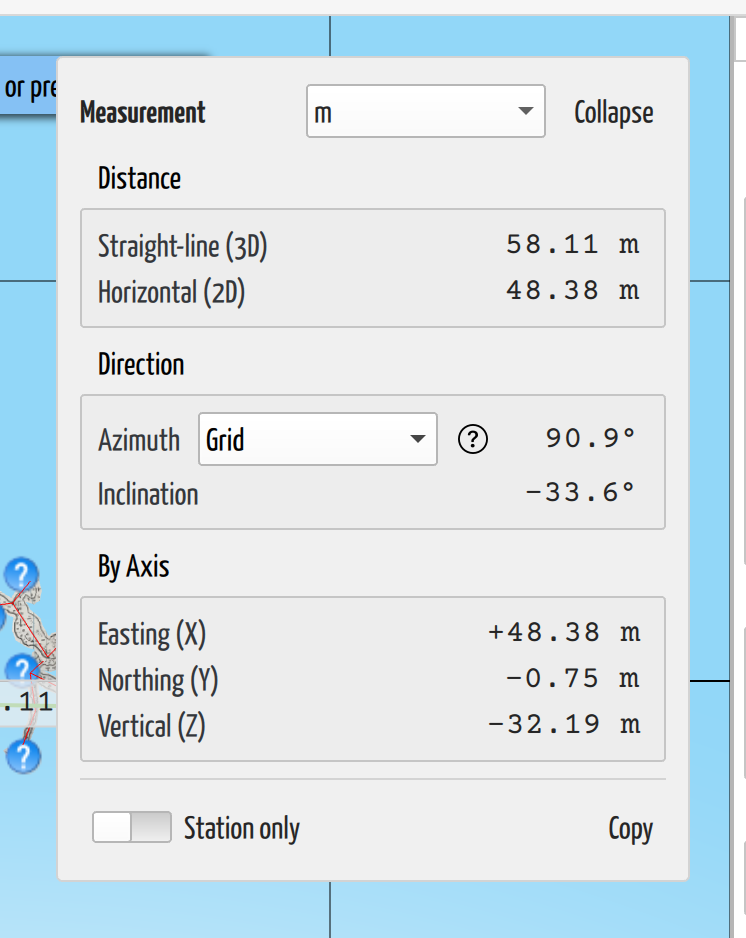
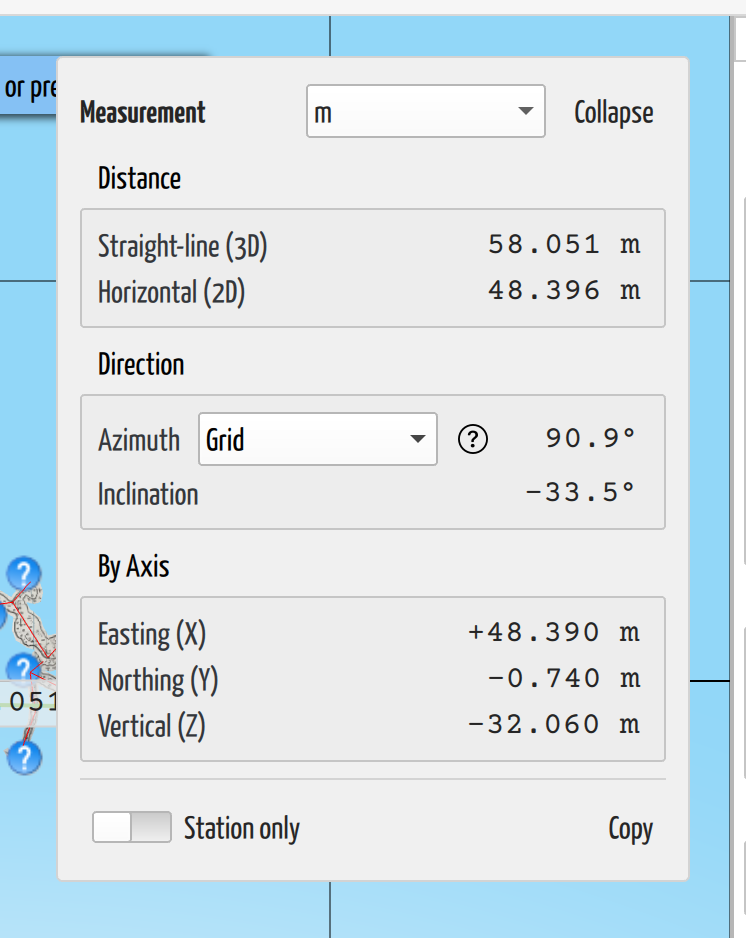
Read a measured length to the millimeter
The measurement tool showed every length at 2 decimals, so a metric
readout stopped at the centimeter — coarser than the disto the distance
came from. Feet at 2 decimals already resolve about 3 mm, so the fix is
per-unit, not a single new number.

cwUnits::lengthDecimals(unit) is that rule, and it is the only place it
lives: meters 3, feet 2, km/mi 3, mm 0, cm 1, in/yd 2. formatLength lost
its decimals parameter and reads the rule instead, so the readout panel,
the on-line chip, and the clipboard copy all move together. formatAngle
keeps its parameter — an angle has no unit to derive from, and its
callers genuinely vary.

The coordinate picker's elevation had the same 3-decimal constant
hardcoded, which was right in meters and a digit too fine in feet. It now
calls Units.lengthDecimals too, so an imperial project reads 6000.00ft
where a metric one reads 2206.890m.

Also corrects the manual's claim that the measurement unit selector
persists to disk: cwLengthUnitSelection is in-memory only and re-follows
the project's unit system, so only the north reference survives a
restart.

cmake --build build/Qt_6_11_1_for_macOS-Debug --target cavewhere-test cavewhere-qml-test
cavewhere-test "[cwUnits],[cwLengthUnitSelection],[cwMeasurementInteraction]"
  -> 239 assertions in 12 test cases, all passed
cavewhere-qml-test --platform offscreen -input test-qml/tst_CoordinatePickerInteraction.qml
  -> 5 passed
[…]

diff --git a/cavewherelib/qml/CoordinatePickerPopup.qml b/cavewherelib/qml/CoordinatePickerPopup.qml
@@ -18,7 +18,6 @@ QC.Popup {
     required property CoordinatePicker picker
 
     readonly property int _gap: 12
-    readonly property int _elevationPrecision: 3
     // The 7th decimal of a degree is ~1 cm, the resolution a registered LiDAR
     // scan actually holds. Six would quantize a pick on one to ~11 cm.
     readonly property int _wgsPrecision: 7
@@ -43,7 +42,7 @@ QC.Popup {
     function _formatElevation(elevationInMeters) {
         const unit = Units.depthDisplayUnit(ProjectUnits.unitSystem)
         const elevation = Units.convertLength(elevationInMeters, Units.Meters, unit)
-        return elevation.toFixed(root._elevationPrecision) + Units.lengthUnitName(unit)
+        return elevation.toFixed(Units.lengthDecimals(unit)) + Units.lengthUnitName(unit)
     }
 
     // Latitude, longitude and elevation as one comma-separated triple, so a

diff --git a/test-qml/tst_CoordinatePickerInteraction.qml b/test-qml/tst_CoordinatePickerInteraction.qml
@@ -111,9 +111,10 @@ MainWindowTest {
                     "41.5660230, -96.3132030, 2206.890m",
                     "Metric project reports the elevation in meters")
 
+            // The decimals follow the unit, from cwUnits::lengthDecimals.
             RootData.region.unitSystem = Units.Imperial
             compare(popup._formatLatLonElevation(41.566023, -96.313203, 1828.8),
-                    "41.5660230, -96.3132030, 6000.000ft",
+                    "41.5660230, -96.3132030, 6000.00ft",
                     "Imperial project reports the elevation in feet")
 
             // The 7th decimal is ~1 cm, which a registered LiDAR scan resolves —

diff --git a/testcases/test_cwMeasurementInteraction.cpp b/testcases/test_cwMeasurementInteraction.cpp
@@ -116,9 +116,9 @@ TEST_CASE("cwMeasurementInteraction measures between two stations", "[cwMeasurem
 
     SECTION("the clipboard readout matches the on-screen popup labels and signs") {
         // Regression for #565: the copied text must read like the panel — grouped
-        // labels, signed by-axis components, and two-decimal lengths — not the old
-        // flat "Distance:/ΔEast:", unsigned, three-decimal form. Clear so the
-        // asserted metre suffixes don't depend on a sibling section's persisted unit.
+        // labels and signed by-axis components — not the old flat
+        // "Distance:/ΔEast:", unsigned form. Clear so a sibling section's stored
+        // azimuth reference can't reach the copied text.
         QSettings().clear();
         QClipboard* clipboard = QGuiApplication::clipboard();
         REQUIRE(clipboard != nullptr);
@@ -134,20 +134,20 @@ TEST_CASE("cwMeasurementInteraction measures between two stations", "[cwMeasurem
         CHECK(text.contains(QStringLiteral("Distance\n")));
         CHECK(text.contains(QStringLiteral("Direction\n")));
         CHECK(text.contains(QStringLiteral("By Axis\n")));
-        CHECK(text.contains(QStringLiteral("Straight-line (3D): 60.00 m")));
-        CHECK(text.contains(QStringLiteral("Horizontal (2D): 60.00 m")));
+        // Meters read to the millimeter, the resolution a disto measures at.
+        CHECK(text.contains(QStringLiteral("Straight-line (3D): 60.000 m")));
+        CHECK(text.contains(QStringLiteral("Horizontal (2D): 60.000 m")));
         CHECK(text.contains(QStringLiteral("Inclination: 0.0°")));
 
         // By-axis components carry their sign; a component that rounds to zero
-        // shows none (never "-0.00 m").
-        CHECK(text.contains(QStringLiteral("Easting (X): +60.00 m")));
-        CHECK(text.contains(QStringLiteral("Northing (Y): 0.00 m")));
-        CHECK(text.contains(QStringLiteral("Vertical (Z): 0.00 m")));
+        // shows none (never "-0.000 m").
+        CHECK(text.contains(QStringLiteral("Easting (X): +60.000 m")));
+        CHECK(text.contains(QStringLiteral("Northing (Y): 0.000 m")));
+        CHECK(text.contains(QStringLiteral("Vertical (Z): 0.000 m")));
 
-        // The retired flat labels and three-decimal lengths must be gone.
+        // The retired flat labels must be gone.
         CHECK_FALSE(text.contains(QStringLiteral("ΔEast")));
         CHECK_FALSE(text.contains(QStringLiteral("ΔNorth")));
-        CHECK_FALSE(text.contains(QStringLiteral("60.000 m")));
     }
 
     SECTION("the clipboard reports lengths in the selected unit") {

diff --git a/cavewherelib/src/cwUnits.h b/cavewherelib/src/cwUnits.h
@@ -80,12 +80,18 @@ public:
     static QString unitName(cwUnits::LengthUnit unit);
     static cwUnits::LengthUnit toLengthUnit(QString unitString);
 
-    //! A length in \a meters, converted to \a unit and rendered at \a decimals
-    //! places with the unit suffix (e.g. "196.85 ft"). With \a signedValue a
-    //! positive value gets an explicit '+'; a value that rounds to zero carries
-    //! no sign (a rounded -0 renders a clean "0.00 <unit>").
+    //! The decimals a measured length is shown at in \a unit — enough to read to
+    //! about a millimeter, whichever unit it is shown in. Drives the measurement
+    //! readout, its clipboard copy, and the coordinate picker's elevation; the
+    //! cave-length stats round to their own coarser precision.
+    Q_INVOKABLE static constexpr int lengthDecimals(cwUnits::LengthUnit unit);
+
+    //! A length in \a meters, converted to \a unit and rendered at that unit's
+    //! lengthDecimals() with the unit suffix (e.g. "196.85 ft"). With
+    //! \a signedValue a positive value gets an explicit '+'; a value that rounds
+    //! to zero carries no sign (a rounded -0 renders a clean "0.000 m").
     static QString formatLength(double meters, cwUnits::LengthUnit unit,
-                                bool signedValue = false, int decimals = 2);
+                                bool signedValue = false);
 
     //! An angle in \a degrees rendered at \a decimals places with the degree
     //! sign (e.g. "0.4°"). A value that rounds to zero carries no sign: a
@@ -201,6 +207,26 @@ inline constexpr double cwUnits::convert(double value,
         return value;
     }
     return convert(value, LengthUnitsToMeters[from], LengthUnitsToMeters[to]);
+}
+
+inline constexpr int cwUnits::lengthDecimals(cwUnits::LengthUnit unit)
+{
+    switch(unit) {
+    case Millimeters:
+        return 0;
+    case Centimeters:
+        return 1;
+    case Inches:
+    case Feet:
+    case Yards:
+    case LengthUnitless:
+        return 2;
+    case Meters:
+    case Kilometers:
+    case Miles:
+        return 3;
+    }
+    return 2;
 }
 
 inline constexpr cwUnits::LengthUnit cwUnits::smallLengthUnit(cwUnits::UnitSystem system)

diff --git a/testcases/test_cwLengthUnitSelection.cpp b/testcases/test_cwLengthUnitSelection.cpp
@@ -71,32 +71,19 @@ TEST_CASE("cwLengthUnitSelection formats a length in the selected unit",
 {
     cwLengthUnitSelection selection;
 
-    SECTION("metres at two decimals with the unit suffix") {
-        CHECK(selection.format(60.0) == QStringLiteral("60.00 m"));
-    }
-
+    // What this class adds to cwUnits::formatLength is the selected unit; the
+    // rendering itself (decimals, suffix, sign collapse) is pinned by [cwUnits].
     SECTION("converts to the selected unit before formatting") {
+        CHECK(selection.format(60.0) == QStringLiteral("60.000 m"));
+
         selection.setUnit(cwUnits::Feet);
         CHECK(selection.format(60.0) == QStringLiteral("196.85 ft"));
     }
 
-    SECTION("the signed variant marks a positive value with a plus") {
+    SECTION("the signed flag reaches the formatter") {
         selection.setUnit(cwUnits::Feet);
         CHECK(selection.format(60.0, true) == QStringLiteral("+196.85 ft"));
-        CHECK(selection.format(-60.0, true) == QStringLiteral("-196.85 ft"));
-    }
-
-    SECTION("a value that rounds to zero carries no sign") {
-        // Both a true zero and a tiny magnitude that rounds down must render a
-        // clean "0.00" — never "+0.00" or "-0.00".
-        CHECK(selection.format(0.0, true) == QStringLiteral("0.00 m"));
-        CHECK(selection.format(0.001, true) == QStringLiteral("0.00 m"));
-        CHECK(selection.format(-0.001, true) == QStringLiteral("0.00 m"));
-    }
-
-    SECTION("the unsigned variant never adds a plus") {
-        CHECK(selection.format(60.0) == QStringLiteral("60.00 m"));
-        CHECK(selection.format(0.0) == QStringLiteral("0.00 m"));
+        CHECK(selection.format(60.0) == QStringLiteral("196.85 ft"));
     }
 }
 

diff --git a/testcases/test_cwUnits.cpp b/testcases/test_cwUnits.cpp
@@ -64,6 +64,21 @@ TEST_CASE("cwUnits length unit names and parsing", "[cwUnits]") {
     CHECK(names.contains("mi"));
 }
 
+TEST_CASE("cwUnits::formatLength renders a length at its unit's decimals",
+          "[cwUnits]") {
+    // Every unit reads to about a millimeter, so the same length resolves the
+    // same whichever unit it is shown in.
+    CHECK(cwUnits::formatLength(60.0, cwUnits::Meters) == QStringLiteral("60.000 m"));
+    CHECK(cwUnits::formatLength(60.0, cwUnits::Feet) == QStringLiteral("196.85 ft"));
+    CHECK(cwUnits::formatLength(6000.0, cwUnits::Kilometers) == QStringLiteral("6.000 km"));
+    CHECK(cwUnits::formatLength(6000.0, cwUnits::Miles) == QStringLiteral("3.728 mi"));
+
+    // The sign decision acts on the rounded value, so a length below half the
+    // last digit prints a clean zero.
+    CHECK(cwUnits::formatLength(-0.0004, cwUnits::Meters, true) == QStringLiteral("0.000 m"));
+    CHECK(cwUnits::formatLength(0.001, cwUnits::Meters, true) == QStringLiteral("+0.001 m"));
+}
+
 TEST_CASE("cwUnits::formatAngle renders degrees at the asked precision", "[cwUnits]") {
     CHECK(cwUnits::formatAngle(0.376) == QStringLiteral("0.4°"));
     CHECK(cwUnits::formatAngle(0.376, 3) == QStringLiteral("0.376°"));

diff --git a/cavewherelib/src/cwUnits.cpp b/cavewherelib/src/cwUnits.cpp
@@ -81,11 +81,12 @@ QStringList cwUnits::unitSystemNames()
 }
 
 QString cwUnits::formatLength(double meters, cwUnits::LengthUnit unit,
-                              bool signedValue, int decimals)
+                              bool signedValue)
 {
     // Round to display precision first so the sign decision and the -0 collapse
-    // both act on the value the user will actually see (a tiny 0.001 must not
-    // print "+0.00").
+    // both act on the value the user will actually see (a tiny 0.0001 m must not
+    // print "+0.000").
+    const int decimals = lengthDecimals(unit);
     const double scale = std::pow(10.0, decimals);
     double value = std::round(convert(meters, Meters, unit) * scale) / scale;
     value += 0.0; // IEEE: -0.0 + 0.0 == +0.0, so a rounds-to-zero value shows no sign

diff --git a/docs/manual/measurement/measure-distance-and-bearing.md b/docs/manual/measurement/measure-distance-and-bearing.md
@@ -73,9 +73,9 @@ complete, so you can't arm Station only before your first one. Measure any 2
 points, flip the switch, then measure the pair you wanted. Flipping it
 mid-measurement gates only what happens next.
 
-The mode lasts the session and no longer, unlike the unit and the north reference,
-which persist to disk. Within a session the help box reads *"Click a survey
-station to start measuring."*
+The mode lasts the session and no longer, as does the unit. Of the three, only
+the north reference persists to disk. Within a session the help box reads
+*"Click a survey station to start measuring."*
 
 **I recommend leaving Station only off** for most work, and turning it on for the
 measurement you plan to write down.
@@ -84,21 +84,22 @@ measurement you plan to write down.
 
 With both points down, a **Measurement** panel appears in the top-right.
 
-![The Measurement readout panel: unit selector m, Straight-line (3D) 58.11 m, Horizontal (2D) 48.38 m, Azimuth Grid 90.9 degrees, Inclination -33.6 degrees, Easting (X) +48.38 m, Northing (Y) -0.75 m, Vertical (Z) -32.19 m, and Copy.](../images/measurement-readout.png)
+![The Measurement readout panel: unit selector m, Straight-line (3D) 58.051 m, Horizontal (2D) 48.396 m, Azimuth Grid 90.9 degrees, Inclination -33.5 degrees, Easting (X) +48.390 m, Northing (Y) -0.740 m, Vertical (Z) -32.060 m, and Copy.](../images/measurement-readout.png)
 *The Measurement panel, the same vector shown 3 ways.*
 
 Every group carries the same vector in different clothes, in selectable monospace
-text, lengths at 2 decimal places and angles at 1:
+text. Angles read to 1 decimal place, and lengths to the millimeter: 3 decimals
+in meters, 2 in feet, so either unit resolves the same distance.
 
-- **Distance** gives **Straight-line (3D)**, `58.11 m` here, the direct distance
-  through the air, and **Horizontal (2D)**, `48.38 m`, the shadow the line would
+- **Distance** gives **Straight-line (3D)**, `58.051 m` here, the direct distance
+  through the air, and **Horizontal (2D)**, `48.396 m`, the shadow the line would
   cast on a map.
 - **Direction** gives the **Azimuth**, `90.9°`, the bearing from the first point
-  to the second in the range `0-360°`, and the **Inclination**, `-33.6°`, from
+  to the second in the range `0-360°`, and the **Inclination**, `-33.5°`, from
   `-90°` straight down to `+90°` straight up.
 - **By Axis** splits the displacement into signed **Easting (X)**, **Northing
   (Y)**, and **Vertical (Z)**. A positive value carries an explicit sign,
-  `+48.38 m`, and a value that rounds to zero prints no sign at all.
+  `+48.390 m`, and a value that rounds to zero prints no sign at all.
 
 No panel appears during the live preview, so a bearing costs both points.
 
@@ -106,9 +107,11 @@ No panel appears during the live preview, so a bearing costs both points.
 
 The **unit selector** in the panel header switches every length at once between
 **m**, **km**, **ft**, and **mi**. It starts on whatever the project's unit system
-implies, meters for metric and feet for imperial, and follows that system until
-you pick a unit yourself. Then the choice saves, stops tracking
-the project, and waits for you next session.
+implies, meters for metric and feet for imperial. Pick a unit yourself and it
+holds for the session, for reading one measurement in feet without touching the
+project. Nothing is written to disk, so the selector goes back to following the
+project the moment its unit system changes — the project setting stays the one
+that decides.
 
 **Copy** drops the whole readout on the clipboard as plain text, laid out like the
 panel. Its azimuth line carries the reference in parentheses, `grid`, `true`, or

diff --git a/docs/manual/georeferencing/georeference-a-cave.md b/docs/manual/georeferencing/georeference-a-cave.md
@@ -109,7 +109,9 @@ In the **3D view**, click the crosshair **Pick** button in the bottom toolbar
 (tooltip "Pick coordinates"), then click the model. A **Picked coordinates**
 panel reports it as **WGS84 (lat, lon, elevation)** — one line, with a **Copy**
 button, so a paste carries the height along with the position. The elevation is
-in the project's units, `2206.890m` or `6000.000ft`. Escape puts the tool away.
+in the project's units, `2206.890m` or `6000.00ft` — the same millimeter
+resolution the [measurement tool](../measurement/measure-distance-and-bearing.md)
+reads to. Escape puts the tool away.
 It's a quick way to grab an entrance coordinate for a permit, a callout, or a
 landowner.
 
